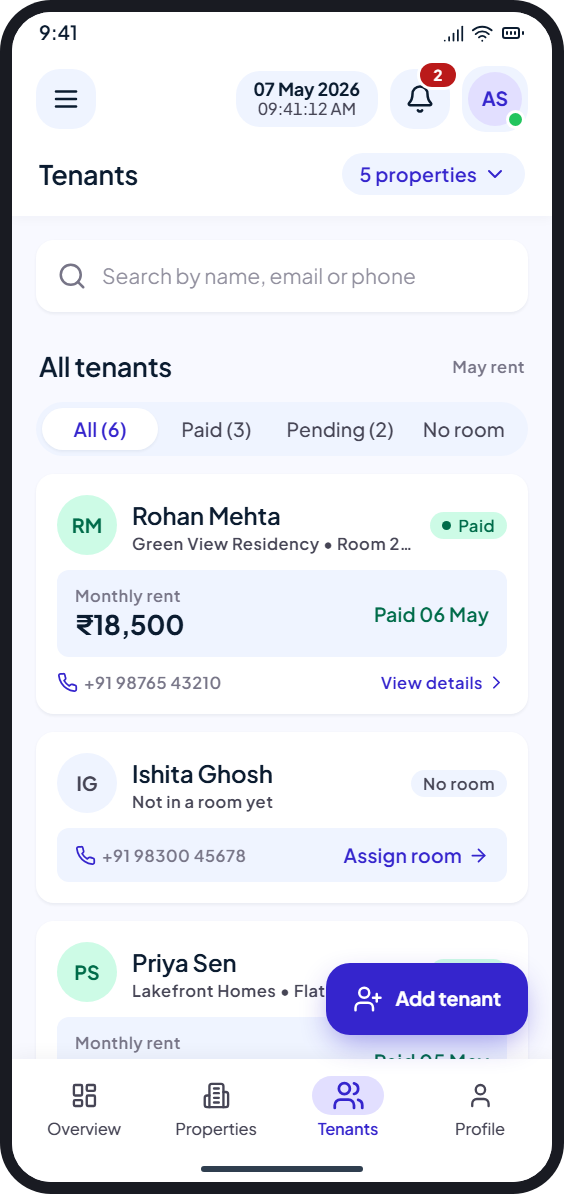
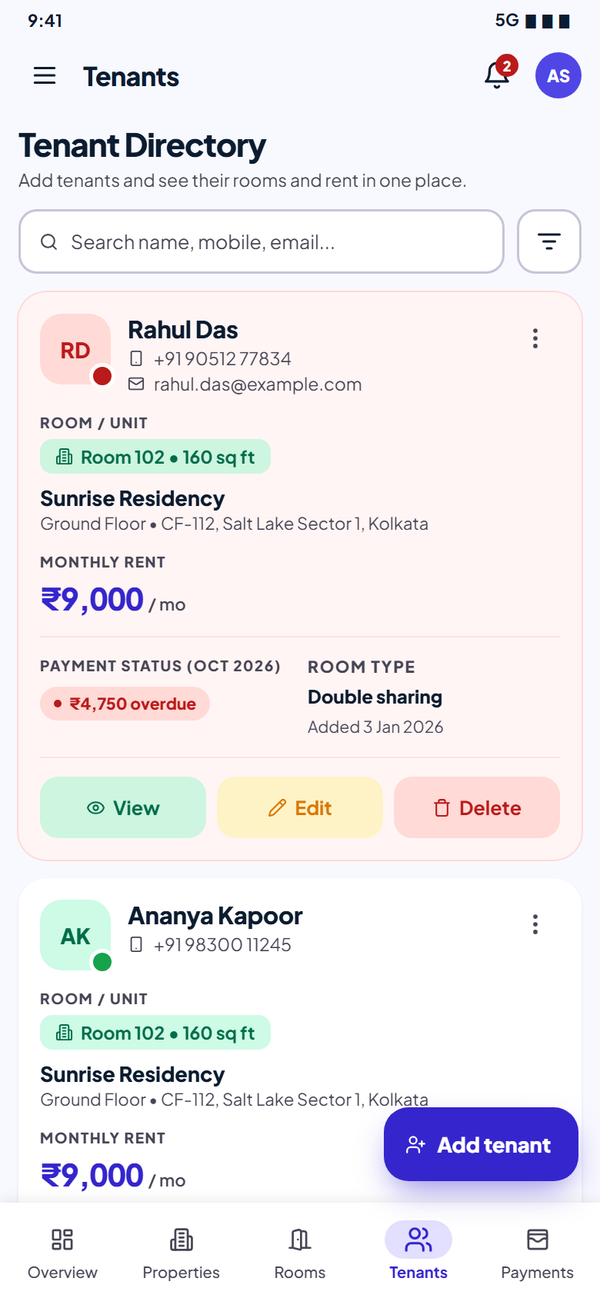
Refresh the README screenshots from the current designs
Renders 21 screens from the approved mockups (Overview, Tenants, tenant
page, Profile, Rooms tab, Payments, Record Payment, Rent History, room
page, Assign Tenant, Change Password, loading placeholders and the
tenant app) and drops the ones for screens that are gone (Pay Rent,
Payment Success, Receipt, lease step, Edit Profile).

diff --git a/README.md b/README.md
@@ -25,7 +25,7 @@
 
 ## Screens
 
-The screenshots are rendered from the approved design mockups the app was built from, with example names and numbers. The numbers match the screen numbers used during design review.
+The screenshots are rendered from the approved design mockups the app was built from (its colours, type and layout), with example names and numbers. The numbers match the screen numbers used during design review.
 
 ### Sign-in
 
@@ -50,7 +50,12 @@ A wrong password or code floats up from the bottom as a red note. Buttons show a
 | 09 Overview | 10 Tenants | 11 Tenant Details | 12 Profile |
 |:---:|:---:|:---:|:---:|
 | <img src="docs/screenshots/09-landlord-overview.png" width="170" alt="Landlord overview"> | <img src="docs/screenshots/10-tenants.png" width="170" alt="Tenants"> | <img src="docs/screenshots/11-tenant-details.png" width="170" alt="Tenant details"> | <img src="docs/screenshots/12-landlord-profile.png" width="170" alt="Landlord profile"> |
-| The web’s phone dashboard (screenshot is the older design, [new mockup](https://claude.ai/artifact/LFReFdJCABQkYVgDePCrz4)): Portfolio Health (estates and cities, rooms “% full” and with space, overdue from earlier months, which opens those bills, and this month’s collected of billed with advance held); Record Payment, Rent Collection and Overdue; Rent this month (this month’s bills and the overdue ones, six at a time, All / Paid / Unpaid, Collect on unpaid ones); five property cards with “+ Add” and View All; and Electricity this month once a bill has a meter reading. | The web’s Tenant Directory (screenshot is the older design, [new mockup](https://claude.ai/artifact/RaTkLr6Mz9Z5k1pTrTXDQa)): search by name, mobile, email or room, and a Filters sheet for property and rent status (Overdue, Due, Paid, Not billed) with counts; filters that are on show as chips with “Clear all”. Each card: photo with a dot (green in a room, amber no room, red overdue), contacts, room and property, monthly rent, this month’s payment status from the bills, room type and date added, then View, Edit and Delete. ⋮ assigns, moves or removes the room, or calls the tenant. Every tenant is in one scroll. | The web’s tenant page (screenshot is the older design, [new mockup](https://claude.ai/artifact/ABML2dsqaiv3pPLiEQ6LpC)): photo, Active, since, mobile and email; the assigned unit and a payment status from the bills (overdue, due, advance, paid or not billed); Record Payment and Edit. Then Room & Tenancy, Roommates, Payment History, Contact & Account (Call, WhatsApp, email, how they sign in) and Tenancy Actions (change room, remove from room, delete). | The web’s profile page (screenshot is the older design, [new mockup](https://claude.ai/artifact/3U6ZSedyM7ccQi5NPfSymb)): photo (tap to view; the camera button changes or removes it), Landlord and email / mobile verified pills, member since and Landlord ID, and Properties, Rooms full, Tenants and this month’s Collected tiles that open their tabs. Name, email and mobile are edited in place with a “You have unsaved changes” bar; a new email becomes your sign-in. Then Security & Login (Change Password, last sign-in), the Account card and Log out. |
+| The web’s phone dashboard ([design mockup](https://claude.ai/artifact/LFReFdJCABQkYVgDePCrz4)): Portfolio Health (estates and cities, rooms “% full” and with space, overdue from earlier months, which opens those bills, and this month’s collected of billed with advance held); Record Payment, Rent Collection and Overdue; Rent this month (this month’s bills and the overdue ones, six at a time, All / Paid / Unpaid, Collect on unpaid ones); five property cards with “+ Add” and View All; and Electricity this month once a bill has a meter reading. | The web’s Tenant Directory ([design mockup](https://claude.ai/artifact/RaTkLr6Mz9Z5k1pTrTXDQa)): search by name, mobile, email or room, and a Filters sheet for property and rent status (Overdue, Due, Paid, Not billed) with counts; filters that are on show as chips with “Clear all”. Each card: photo with a dot (green in a room, amber no room, red overdue), contacts, room and property, monthly rent, this month’s payment status from the bills, room type and date added, then View, Edit and Delete. ⋮ assigns, moves or removes the room, or calls the tenant. Every tenant is in one scroll. | The web’s tenant page ([design mockup](https://claude.ai/artifact/ABML2dsqaiv3pPLiEQ6LpC)): photo, Active, since, mobile and email; the assigned unit and a payment status from the bills (overdue, due, advance, paid or not billed); Record Payment and Edit. Then Room & Tenancy, Roommates, Payment History, Contact & Account (Call, WhatsApp, email, how they sign in) and Tenancy Actions (change room, remove from room, delete). | The web’s profile page ([design mockup](https://claude.ai/artifact/3U6ZSedyM7ccQi5NPfSymb)): photo (tap to view; the camera button changes or removes it), Landlord and email / mobile verified pills, member since and Landlord ID, and Properties, Rooms full, Tenants and this month’s Collected tiles that open their tabs. Name, email and mobile are edited in place with a “You have unsaved changes” bar; a new email becomes your sign-in. Then Security & Login (Change Password, last sign-in), the Account card and Log out. |
+
+| 09 Overview, scrolled | 10 Tenants: filters |
+|:---:|:---:|
+| <img src="docs/screenshots/09-landlord-overview-more.png" width="170" alt="Overview: properties and electricity"> | <img src="docs/screenshots/10-tenants-filters.png" width="170" alt="Tenants filter sheet"> |
+| Properties with “+ Add” and View All, then Electricity this month. | Property and rent status, each with how many tenants it keeps; Apply filters. |
 
 ### Properties and rooms
 
@@ -59,9 +64,14 @@ A wrong password or code floats up from the bottom as a red note. Buttons show a
 | <img src="docs/screenshots/16-properties.png" width="220" alt="Properties"> | <img src="docs/screenshots/17-property-details.png" width="220" alt="Property details"> | <img src="docs/screenshots/18-property-form.png" width="220" alt="Add property"> |
 | Rooms, let and vacant counts, then a card per property with its cover photo and how many rooms are let. | Swipeable photos, address, floors, parking and lift, and every room with its tenant or “Vacant”. | The web form’s fields in short sections, with chips, switches and up to 10 photos. Mistakes show under the field. |
 
-**26 Rooms tab** (no screenshot yet; [design mockup](https://claude.ai/artifact/2pPTYU1YF9Za16gYADb2PN)). The web’s phone room list: a Property dropdown, then the property’s cover, Monthly target, Total units, Full units and Units with space. Search by room number, type or size, and a Filters sheet with Status (All, Has space, Full) and Floor, each with its count; filters that are on show as chips you can tap off. Every room of the property is in one scroll (the web pages them ten at a time). Each card shows Empty, “1 of 2 filled”, Full or “3 tenants • shared”, the rent, swipeable photos, capacity bars, who lives there with a call button, features and the deposit, and “Assign Tenant” while the room has space. The tab remembers the property while the app runs.
+| 26 Rooms tab | 27 Rent Collection | 27 Bill details | 28 Record Payment | 29 Rent History |
+|:---:|:---:|:---:|:---:|:---:|
+| <img src="docs/screenshots/26-rooms-tab.png" width="135" alt="Rooms tab"> | <img src="docs/screenshots/27-rent-collection.png" width="135" alt="Rent Collection"> | <img src="docs/screenshots/27-bill-details.png" width="135" alt="Bill details"> | <img src="docs/screenshots/28-record-payment.png" width="135" alt="Record Payment"> | <img src="docs/screenshots/29-rent-history.png" width="135" alt="Rent History"> |
+| A property’s rooms in one scroll. | This month’s bills and totals. | One bill, with Collect, Edit and Delete. | A new bill and the money received. | Month by month, with a chart. |
 
-**27 Payments: Rent Collection** (no screenshot yet; [design mockup](https://claude.ai/artifact/EL1TgnWtUmQXBppw8baabf)). The web’s phone Rent Collection: “Collected in Oct 2026” with the share of the billed amount, Still due and Advance held; a red “₹… overdue · Review” line that opens the bills still unpaid from earlier months; a month stepper (tap the month for a grid of months, no future ones), a property sheet and search; All / Pending / Partial / Paid tabs with counts; a card per bill with its status, total, received and due, a bar of how much is covered (advance in indigo, money in green) and any advance used. Tenants in a room with no bill for the month are listed under “Review”. Tapping a bill opens its details in a bottom sheet: totals, breakdown with the meter readings, payment, advance (and which later bill used it) and the meter photo or payment proof (a PDF opens in the phone’s viewer). From there: **Collect ₹…**, **Edit bill** (the Record Payment form on the saved bill), **Delete** (the confirmation says what happens to the advance), and add, change or remove the meter photo or payment proof, saved right away.
+**26 Rooms tab** ([design mockup](https://claude.ai/artifact/2pPTYU1YF9Za16gYADb2PN)). The web’s phone room list: a Property dropdown, then the property’s cover, Monthly target, Total units, Full units and Units with space. Search by room number, type or size, and a Filters sheet with Status (All, Has space, Full) and Floor, each with its count; filters that are on show as chips you can tap off. Every room of the property is in one scroll (the web pages them ten at a time). Each card shows Empty, “1 of 2 filled”, Full or “3 tenants • shared”, the rent, swipeable photos, capacity bars, who lives there with a call button, features and the deposit, and “Assign Tenant” while the room has space. The tab remembers the property while the app runs.
+
+**27 Payments: Rent Collection** ([design mockup](https://claude.ai/artifact/EL1TgnWtUmQXBppw8baabf)). The web’s phone Rent Collection: “Collected in Oct 2026” with the share of the billed amount, Still due and Advance held; a red “₹… overdue · Review” line that opens the bills still unpaid from earlier months; a month stepper (tap the month for a grid of months, no future ones), a property sheet and search; All / Pending / Partial / Paid tabs with counts; a card per bill with its status, total, received and due, a bar of how much is covered (advance in indigo, money in green) and any advance used. Tenants in a room with no bill for the month are listed under “Review”. Tapping a bill opens its details in a bottom sheet: totals, breakdown with the meter readings, payment, advance (and which later bill used it) and the meter photo or payment proof (a PDF opens in the phone’s viewer). From there: **Collect ₹…**, **Edit bill** (the Record Payment form on the saved bill), **Delete** (the confirmation says what happens to the advance), and add, change or remove the meter photo or payment proof, saved right away.
 
 **29 Rent History** (same mockup). Opened from **History** on Rent Collection or the side menu. The web’s page: All properties or one, Last 6 months / Last 12 months / the financial year (April to March); Billed, Collected (with the share of billed), Still due (and how much of it is overdue) and Advance held; a chart of collected and still due for each month (tap a month for its figures, tap again to open it); and the months newest first, tagged This month, Overdue or Fully collected. A month opens Rent Collection on that month and property. **CSV** shares the months through Android’s share menu.
 
@@ -69,10 +79,10 @@ A wrong password or code floats up from the bottom as a red note. Buttons show a
 
 **28 Record Payment** (same mockup). The floating **Record** button asks “Who is it for?” (tenants in a room, each marked “Bill exists” or “Not billed”), and **Collect** on a bill or **Create bill** for a tenant not billed opens the form straight away. The web’s form: billing month (the last 12, “bill exists” marked); for a new bill, rent filled in from the room, electricity with the previous reading and rate carried on from the room’s last bill (and a warning in a shared room), an optional meter photo, other charges with WiFi / Gas / Maintenance / Water chips; for a bill that exists, what it holds and “Received now”; on a fully paid bill, “Receive an advance”. Then the amount (Full amount / Half / Not received yet), Cash / UPI / Cheque, the date, an optional proof (photo or PDF) and notes, and a bill summary. Advance is previewed with the backend’s rules: advance from earlier bills that comes off this one, money beyond the bill and which later month uses it, and earlier months still due. The button says what is saved, e.g. “Save bill + ₹5,500 payment”.
 
-| 19 Room: let | 19 Room: vacant | 20 Add or Edit Room |
+| 19 Room: full, Remove | 19 Room with space | 20 Add or Edit Room |
 |:---:|:---:|:---:|
-| <img src="docs/screenshots/19-room-let.png" width="220" alt="Room with a tenant"> | <img src="docs/screenshots/19-room-vacant.png" width="220" alt="Vacant room"> | <img src="docs/screenshots/20-room-form.png" width="220" alt="Add room"> |
-| The web’s room page (screenshot is the older design, [new mockup](https://claude.ai/artifact/ADQYehGDjWwaNptkNe6RED)): room number, property, floor and size with Empty / “1 of 2 filled” / Full; occupancy and amenity chips; Monthly Rent and Security Deposit; Edit Room and Delete. Then the Room Gallery (swipe, thumbnails, full screen), Occupants with capacity bars, Call and Remove on each person, Room Details tiles and the Property with “View Property”. | A room with space offers “Assign Tenant”; a full one says “Room is full. Remove someone to make space.” A room with tenants can’t be deleted until they are removed. | Room number, floor, occupancy, rent, deposit, facilities and photos. |
+| <img src="docs/screenshots/19-room-let.png" width="220" alt="Full room with the Remove confirmation"> | <img src="docs/screenshots/19-room-vacant.png" width="220" alt="Room with space"> | <img src="docs/screenshots/20-room-form.png" width="220" alt="Add room"> |
+| A full room says “Room is full. Remove someone to make space.” Remove on a person asks first, and the room gets their place back. | The web’s room page ([design mockup](https://claude.ai/artifact/ADQYehGDjWwaNptkNe6RED)): room number, property, floor and size with Empty / “1 of 2 filled” / Full; occupancy and amenity chips; Monthly Rent and Security Deposit; Edit Room and Delete. Then the Room Gallery (swipe, thumbnails, full screen), Occupants with capacity bars, Call and Remove on each person, Room Details tiles and the Property with “View Property”. A room with space offers “Assign Tenant”; a room with tenants can’t be deleted until they are removed. | Room number, floor, occupancy, rent, deposit, facilities and photos. |
 
 ### Adding tenants and giving them rooms
 
@@ -86,25 +96,25 @@ A wrong password or code floats up from the bottom as a red note. Buttons show a
 | 25 Change Password |
 |:---:|
 | <img src="docs/screenshots/25-change-password.png" width="220" alt="Change password"> |
-| Current password, then the new one twice. As on the web, the new one needs at least 6 characters, must differ from the current one and match its confirmation; each check turns green as you type. (Screenshot is the older design.) |
+| Current password, then the new one twice. As on the web, the new one needs at least 6 characters, must differ from the current one and match its confirmation; each check turns green as you type. |
 
 ### Confirmations and list states
 
 | Remove from room | Delete | Loading | Empty | Can’t connect |
 |:---:|:---:|:---:|:---:|:---:|
 | <img src="docs/screenshots/sheet-end-lease.png" width="135" alt="Remove from room confirmation"> | <img src="docs/screenshots/sheet-delete-property.png" width="135" alt="Delete property confirmation"> | <img src="docs/screenshots/state-loading.png" width="135" alt="Loading"> | <img src="docs/screenshots/state-empty.png" width="135" alt="Empty list"> | <img src="docs/screenshots/state-error.png" width="135" alt="Error with retry"> |
-| Says what happens before a tenant leaves a room. | Deletes ask first. A property or room with tenants can’t be deleted until they are removed from it. | Placeholder cards that pulse, as on the web, while a list loads. | A first-time landlord sees what to add first. | The reason and a “Try again” button. |
+| Says what happens before a tenant leaves a room. | Deletes ask first. A property or room with tenants can’t be deleted until they are removed from it. | Placeholders that pulse, as on the web, in the shape of what is loading. | A first-time landlord sees what to add first. | The reason and a “Try again” button. |
 
 After every save or delete, a short message such as “Property saved” floats up from the bottom.
 
 ### Tenant
 
-A tenant sees only their own bills (`/tenant/payment`), which their landlord records; the app takes no payments. [Design mockup](https://claude.ai/artifact/3fTPD42D4YqiH8xnfyT8UK); the screenshots below are the older design.
+A tenant sees only their own bills (`/tenant/payment`), which their landlord records; the app takes no payments ([design mockup](https://claude.ai/artifact/3fTPD42D4YqiH8xnfyT8UK)).
 
-| 03 Home | 06 Payments | 08 Profile |
-|:---:|:---:|:---:|
-| <img src="docs/screenshots/03-tenant-home.png" width="220" alt="Tenant home"> | <img src="docs/screenshots/06-payment-history.png" width="220" alt="Payments"> | <img src="docs/screenshots/08-tenant-profile.png" width="220" alt="Tenant profile"> |
-| This month’s bill on an indigo card: still due (or paid), a bar of how much is covered, received of total, the room, and View bill. A red line for earlier months still unpaid, any advance held, a note on how to pay (cash, UPI or cheque to the landlord), all-time totals and the three latest bills. | Every bill, newest first, with Billed, Received and Still due, and All / Pending / Partial / Paid. Earlier months still unpaid say Overdue. | Read-only, as on the web: photo, name, mobile, email, and the room and property from the newest bill. Change Password (the landlord’s screen and rules) and Log out. |
+| 03 Home | 06 Payments | 07 Bill details | 08 Profile |
+|:---:|:---:|:---:|:---:|
+| <img src="docs/screenshots/03-tenant-home.png" width="170" alt="Tenant home"> | <img src="docs/screenshots/06-tenant-payments.png" width="170" alt="Payments"> | <img src="docs/screenshots/07-tenant-bill.png" width="170" alt="Bill details"> | <img src="docs/screenshots/08-tenant-profile.png" width="170" alt="Tenant profile"> |
+| This month’s bill on an indigo card: still due (or paid), a bar of how much is covered, received of total, the room, and View bill. A red line for earlier months still unpaid, any advance held, a note on how to pay (cash, UPI or cheque to the landlord), all-time totals and the three latest bills. | Every bill, newest first, with Billed, Received and Still due, and All / Pending / Partial / Paid. Earlier months still unpaid say Overdue. | One bill as the landlord’s bill sheet shows it, without Collect, Edit or Delete. | Read-only, as on the web: photo, name, mobile, email, and the room and property from the newest bill. Change Password (the landlord’s screen and rules) and Log out. |
 
 **Bill details** (replaces the Receipt) shows one bill as the landlord’s bill sheet does, without Collect, Edit or Delete: totals and how much is paid, rent, electricity with the readings, other charges, advance used, the payment’s method and date, any advance kept for later bills, and the meter photo and payment proof (a PDF opens in the phone’s viewer).
 
